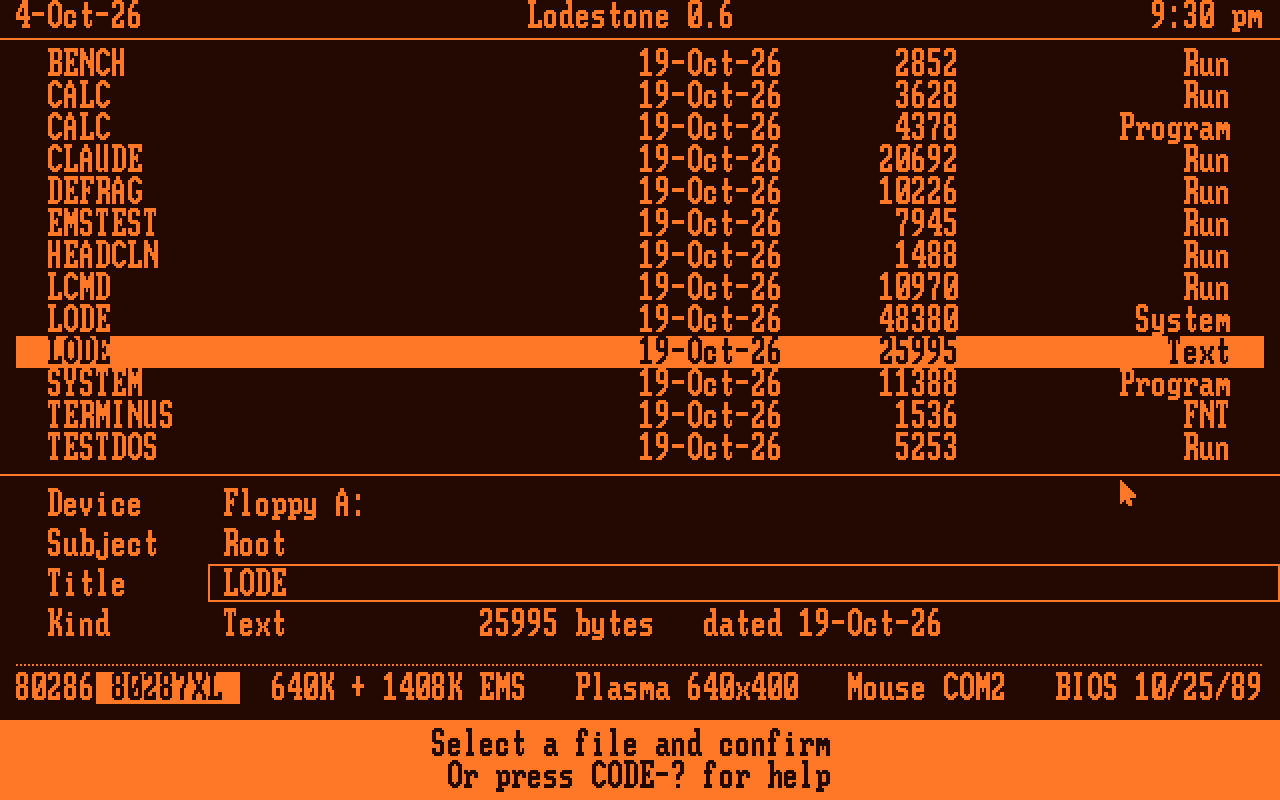
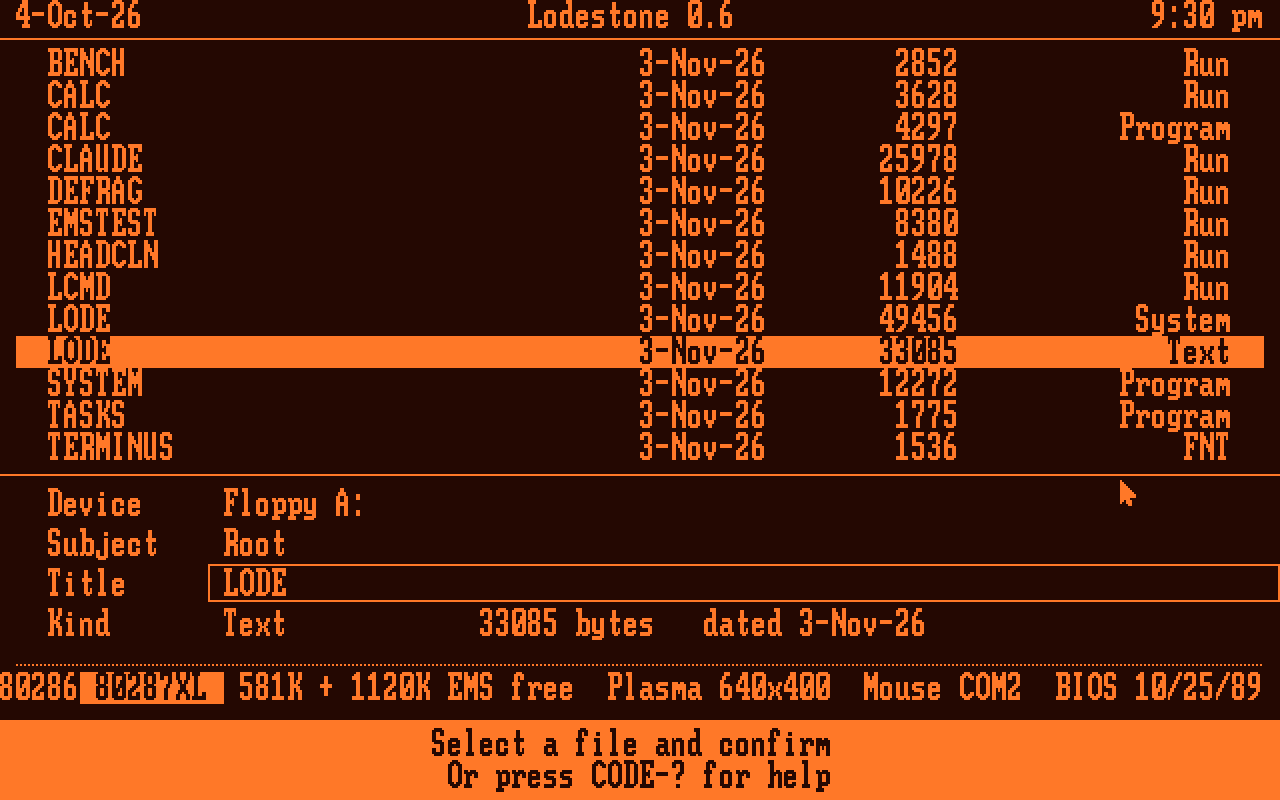
README: screenshots retaken with the new info line; multitasking and Tasks shots
os/screens/readme_shots.py retakes the emulator shots (the Executive's
line now shows free memory: 581K + 1120K EMS free) and adds two with
MULTITASK=1: LCMD and BENCH as tasks in terminal windows sized (CODE-F8)
and placed (CODE-F7) over the Executive, and CODE-T's task list.

diff --git a/os/screens/readme_shots.py b/os/screens/readme_shots.py
@@ -8,7 +8,7 @@ HERE = os.path.dirname(os.path.abspath(__file__))
 GOS = os.path.dirname(HERE)
 sys.path.insert(0, GOS); sys.path.insert(0, os.path.join(GOS, 'tests'))
 import ktest, mkimg
-from test_apps import CODE, K_CODE_ENTER
+from test_apps import CODE, K_CODE_ENTER, click
 OUT = os.path.join(HERE, 'readme')
 TMP = os.path.join(__import__('tempfile').gettempdir(), 'lodestone-readme')
 os.makedirs(OUT, exist_ok=True); os.makedirs(TMP, exist_ok=True)
@@ -69,4 +69,27 @@ k.settle(10)
 k.key(CODE['U'])
 for _ in range(5): k.key(ktest.DOWN, settle=False)
 k.settle(); shot('system_display'); k.key(ktest.ESC)
+# Multitasking (MULTITASK=1): LCMD (CODE-P) and BENCH (Return on it) as
+# tasks, each in a terminal window made smaller (CODE-F8) and placed
+# (CODE-F7) over the Executive's list, which stays usable beside them
+ini = os.path.join(TMP, 'LODE.INI'); open(ini, 'wb').write(b'MULTITASK=1\r\n')
+img = mkimg.build(os.path.join(TMP, 'mt.img'), files + [os.path.join(GOS, 'src', 'LODEMT.SYS'),
+                  os.path.join(GOS, 'apps', 'TERM.RUN'), os.path.join(GOS, 'fonts', 'TERM.FNT'), 'LODE.INI=' + ini])
+k = ktest.KPC(img, ems_pages=88, irq_exact=True); k.pc.mouse = True; k.start(20)
+def keys(*ks, t=0.3):                   # (no settle: with tasks running the machine never idles)
+    for x in ks: k.key(x, settle=False); k.run_for(t)
+def arrows(cols, rows):
+    for _ in range(abs(cols)): keys(ktest.LEFT if cols < 0 else ktest.RIGHT, t=0.05)
+    for _ in range(abs(rows)): keys(ktest.UP if rows < 0 else ktest.DOWN, t=0.05)
+    keys(ktest.ENTER, t=1.0)
+keys(CODE['P'], t=3.0); keys('dir /w', ktest.ENTER, t=2.0)
+keys(0x6F00); arrows(-40, -11)          # CODE-F8: 40 columns, 8 rows
+click(k, 600, 300); k.run_for(0.5)      # the Executive in front again
+i, s = k.exec_list().index('BENCH.COM'), k.u16('sel')
+keys(*([ktest.DOWN] * (i - s) + [ktest.UP] * (s - i)), t=0.1)
+keys(ktest.ENTER, t=2.0)
+keys(0x6F00); arrows(-29, -11)          # 51 columns, 8 rows ...
+keys(0x6E00); arrows(28, -4)            # ... at the right, level with LCMD's
+k.run_for(6.0); shot('multitasking')
+keys(CODE['T'], t=1.0); shot('tasks')    # CODE-T: the tasks, over them
 print('\n'.join(sorted(os.listdir(OUT))))

diff --git a/README.md b/README.md
@@ -9,7 +9,9 @@ Lodestone also connects the GRiD to Claude. Through a Raspberry Pi on the GPIB b
 | ![The start-up picture](os/screens/readme/splash.png) | ![System, Display](os/screens/readme/system_display.png) |
 | The start-up picture (`LODE.PIC`)¹ | System, Display: the font, and the start-up picture (Space turns it off) |
 | ![The Executive](os/screens/readme/executive.png) | ![Copy with a wildcard](os/screens/readme/copy_wildcards.png) |
-| The Executive: GRiD's File form (Device, Subject, Title), the 1520's EMS and serial mouse in the status line | Copy, Move and Delete take wildcards, with Replace and Only newer |
+| The Executive: GRiD's File form (Device, Subject, Title); the status line shows the memory free for programs and in EMS, the panel as the 1520 reports it, and the serial mouse | Copy, Move and Delete take wildcards, with Replace and Only newer |
+| ![Multitasking](os/screens/readme/multitasking.png) | ![Tasks](os/screens/readme/tasks.png) |
+| Multitasking (`MULTITASK=1`): the command prompt and BENCH running as tasks, each in a window sized and placed over the Executive (CODE-F8, CODE-F7), which stays usable beside them | CODE-T: the tasks, with Return to bring one to the front, CODE-B to send it behind, CODE-Z to park it and CODE-D to end it |
 | ![System, Memory](os/screens/readme/system_memory.png) | ![System, Disks](os/screens/readme/system_disks.png) |
 | System: where the 640 KB goes, and the EMS | System: the floppy, the internal hard disk as C: (the 1520's own 121 MB Conner layout) and M:, the RAM disk |
 | ![Write](os/screens/readme/write.png) | ![BENCH](os/screens/readme/bench.png) |
